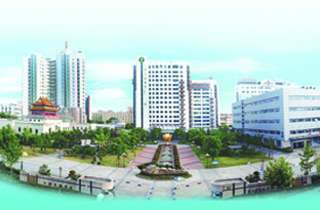
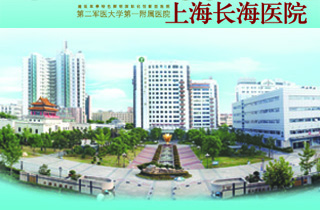
网络

Changed region(s): [[0.0, 0.0, 1.0, 0.1429]]

diff --git a/SRC/tpl/Home/lanrain/Huai_hospitalall.html b/SRC/tpl/Home/lanrain/Huai_hospitalall.html
@@ -4,12 +4,12 @@
 <div class="h_all">
 	<div>
 		<p>
-			<img src="__PUBLIC__/images/sanjia.png" width="100%" />
+			<img src="__PUBLIC__/images/head.jpg" width="100%" />
 		</p>
 	</div>
 	<div class="hos_all">
 		<div class="hos_intro">
-			<p>上海市长海医院</p>
+
 			<div class="img_intro">
 				<img src="__PUBLIC__/images/changhai.jpg" width="100%" />
 			</div>
@@ -33,110 +33,162 @@
 					<div class="menu3div">
 						<div id="con_one_1">
 							<div class="main_c">
-								<ul class="index_dpt_list">
-									
-									
-									
-									<li><a
-										href="http://chhospital.com.cn/department/single.php?did=3743"
-										title="消化内科">消化内科</a></li>
-									
-									
-									<li><a
-										href="http://chhospital.com.cn/department/single.php?did=3751"
-										title="泌尿外科">泌尿外科</a></li>
-									<li><a
-										href="http://chhospital.com.cn/department/single.php?did=3748"
-										title="胸心外科">胸心外科</a></li>
-									
-									<li><a
-										href="http://chhospital.com.cn/department/single.php?did=16184"
-										title="烧伤外科">烧伤外科</a></li>
-									
-									<li><a href="/department/single.php?did=16191"
-		title="中医肿瘤科">中医肿瘤科</a></li>
-									
-									<li><a
-										href="http://chhospital.com.cn/department/single.php?did=17640"
-										title="中医内科">中医内科</a></li>
-									<li><a
-										href="http://chhospital.com.cn/department/single.php?did=17641"
-										title="中医外科">中医外科</a></li>
-									<li><a
-										href="http://chhospital.com.cn/department/single.php?did=17639"
-										title="中医妇科">中医妇科</a></li>
-										<li><a href="/department/single.php?did=17642"
-		title="中医针灸推拿科">中医针灸推拿科</a></li>
-									
-									<li><a
-										href="http://chhospital.com.cn/department/single.php?did=3767"
-										title="影像医学科 ">影像医学科 </a></li>
-								
-								</ul>								
-							</div>							
+								<ul class="dpt_disease_list">
+									<li><a href="http://chhospital.com.cn/department/single.php?did=3743"> <img
+											src="__PUBLIC__/images/20121220161934dhu013.png" alt="消化内科"
+											class="img_style" align="left" height="100" width="100">
+											消化内科
+									</a>
+										<p>长海医院消化内科成立于1976年。2000年被批准为全军消化内科专科中心（2006年升级为研究所），2001年...</p>
+									</li>
+									<li><a href="http://chhospital.com.cn/department/single.php?did=3751"> <img
+											src="__PUBLIC__/images/20121128183600348GIV.jpg" alt="泌尿外科"
+											class="img_style" align="left" height="100" width="100">
+											泌尿外科
+									</a>
+										<p>长海医院泌尿外科是新中国成立后的第一批泌尿外科专业学科，1986年成为硕士学位授权学科，1993年成为博士...</p>
+									</li>
+									<li><a href="http://chhospital.com.cn/department/single.php?did=3748"> <img
+											src="__PUBLIC__/images/20121128183651e4CPTU.jpg" alt="胸心外科"
+											class="img_style" align="left" height="100" width="100">
+											胸心外科
+									</a>
+										<p>第二军医大学长海医院胸心外科创建于1951年，是我国成立心血管外科专业较早的单位之一。于1965年6月在国内...</p>
+									</li>
+									<li><a href="http://chhospital.com.cn/department/single.php?did=16184"> <img
+											src="__PUBLIC__/images/20130815083429sx9MRT.jpg" alt="烧伤外科"
+											class="img_style" align="left" height="100" width="100">
+											烧伤外科
+									</a>
+										<p>烧伤外科是全军烧伤中心和上海市医学领先专业重点学科。至今已救治烧伤12000余例，成功救治烧伤总面积10...</p>
+									</li>
+									<li><a href="http://chhospital.com.cn/department/single.php?did=16191"> <img
+											src="__PUBLIC__/images/20121128184123k16DNQ.jpg" alt="中医肿瘤科"
+											class="img_style" align="left" height="100" width="100">
+											中医肿瘤科
+									</a>
+										<p>第二军医大学长海中医医院，是以第二军医大学中医系和长海医院中医科为基础成立的全军首家中医医院。肿瘤...</p></li>
+									<li><a href="http://chhospital.com.cn/department/single.php?did=17640"> <img src=""
+											alt="中医内科" class="img_style" align="left" height="100"
+											width="100"> 中医内科
+									</a>
+										<p>中医内科隶属长海中医医院，参与国家中西医结合（临床）重点学科建设，为国家中医药管理局中医内科重点学...</p></li>
+									<li><a href="http://chhospital.com.cn/department/single.php?did=17641"> <img src=""
+											alt="中医外科" class="img_style" align="left" height="100"
+											width="100"> 中医外科
+									</a>
+										<p>中医外科隶属长海中医医院，为国家中西医结合（临床）重点学科，集临床、教学、科研为一体，现有教授2人，...</p></li>
+									<li><a href="http://chhospital.com.cn/department/single.php?did=17639"> <img src=""
+											alt="中医妇科" class="img_style" align="left" height="100"
+											width="100"> 中医妇科
+									</a>
+										<p>长海中医医院中医妇科已开展临床与科研工作20余年，所依托的中西医结合临床专业是国家教育部重点学科，是...</p></li>
+									<li><a href="http://chhospital.com.cn/department/single.php?did=17642"> <img src=""
+											alt="中医针灸推拿科" class="img_style" align="left" height="100"
+											width="100"> 中医针灸推拿科
+									</a>
+										<p>上海长海医院中医科（针灸推拿）创建于1958年，经过50余年的建设和发展，2011年成立长海中医医院针灸推拿...</p>
+									</li>
+									<li><a href="http://chhospital.com.cn/department/single.php?did=3767"> <img
+											src="__PUBLIC__/images/20121128184556cnov6A.jpg" alt="影像医学科 "
+											class="img_style" align="left" height="100" width="100">
+											影像医学科
+									</a>
+										<p>放射诊断科建于1949年，经几十年、几代放射专家辛勤耕耘，相继成为硕士、博士授权学科和博士后流动站，2...</p>
+									</li>
+								</ul>
+							</div>
 						</div>
 						<div id="con_one_2" style="display: none;">
-						  <div class="main_c"><ul
-	class="dpt_disease_list">
-		<li><a href="single.php?did=3739"> <img
-		src="/upload/changhai/20140724090036nuDFQT.jpg" alt="心血管内科"
-		class="img_style" align="left" height="100" width="100"> 心血管内科</a>
-	<p>心内科创建于1962年，我国医学界著名心血管专家龚念慈教授、尉挺教授是我科奠基人。经过50多年的不断建设...</p>
-	</li>
-		<li><a href="single.php?did=3774"> <img
-		src="/upload/changhai/20121128182415kqEIUX.jpg" alt="血液内科"
-		class="img_style" align="left" height="100" width="100"> 血液内科</a>
-	<p>长海医院内科血液专业成立于1962年，1978年成立血液科，1979年被总后勤部批准为全军血液病专科中心，是最...</p>
-	</li>
-		<li><a href="single.php?did=16174"> <img
-		src="/upload/changhai/20121128183025mxGKRV.jpg" alt="肛肠外科"
-		class="img_style" align="left" height="100" width="100"> 肛肠外科</a>
-	<p>国家重点学科、国家中医药管理局肛肠外科重点学科和重点专科、中国人民解放军肛肠病重点学科、第二军医大...</p>
-	</li>
-		<li><a href="single.php?did=16189"> <img
-		src="/upload/changhai/20121128183509rz14HM.jpg" alt="血管外科"
-		class="img_style" align="left" height="100" width="100"> 血管外科</a>
-	<p>第二军医大学附属长海医院血管外科成立于1989年，目前为国家重点学科，上海市血管系统疾病临床医学中心，...</p>
-	</li>
-		<li><a href="single.php?did=3753"> <img
-		src="/upload/changhai/20121128183803cnrzAF.jpg" alt="神经外科"
-		class="img_style" align="left" height="100" width="100"> 神经外科</a>
-	<p>长海医院（脑外科）神经外科建科于1953年，是上海最早设立（脑外科）神经外科医院之一，经过50多年的发展...</p>
-	</li>
-		<li><a href="single.php?did=3749"> <img
-		src="/upload/changhai/20121128183824qx1ETU.jpg" alt="整形外科"
-		class="img_style" align="left" height="100" width="100"> 整形外科</a>
-	<p>整形外科工作成立于1960年，是我国较早开展整形外科工作的单位之一。著名整形外科专家郭恩覃教授为学科创...</p>
-	</li>
-		<li><a href="single.php?did=16178"> <img
-		src="/upload/changhai/20121128183928hmsIJP.jpg" alt="麻醉科"
-		class="img_style" align="left" height="100" width="100"> 麻醉科</a>
-	<p>麻醉科是临床二级学科，麻醉学硕士、博士学位授予单位及博士后流动站，2004年成为第二军医大学麻醉学中心...</p>
-	</li>
-		<li><a href="single.php?did=3760"> <img
-		src="/upload/changhai/20121128184344ipqzKR.jpg" alt="耳鼻喉科"
-		class="img_style" align="left" height="100" width="100"> 耳鼻喉科</a>
-	<p>耳鼻喉科技术力量雄厚，人才梯队较合理。1981年被批准为硕士学位授权学科；1998年被批准为博士学位授权学...</p>
-	</li>
-	</ul>
-	</div>
+							<div class="main_c">
+								<ul class="dpt_disease_list">
+									<li><a
+										href="http://chhospital.com.cn/department/single.php?did=3739">
+											<img src="__PUBLIC__/images/20140724090036nuDFQT.jpg"
+											alt="心血管内科" class="img_style" align="left" height="100"
+											width="100"> 心血管内科
+									</a>
+										<p>心内科创建于1962年，我国医学界著名心血管专家龚念慈教授、尉挺教授是我科奠基人。经过50多年的不断建设...</p>
+									</li>
+									<li><a
+										href="http://chhospital.com.cn/department/single.php?did=3774">
+											<img src="__PUBLIC__/images/20121128182415kqEIUX.jpg"
+											alt="血液内科" class="img_style" align="left" height="100"
+											width="100"> 血液内科
+									</a>
+										<p>长海医院内科血液专业成立于1962年，1978年成立血液科，1979年被总后勤部批准为全军血液病专科中心，是最...</p>
+									</li>
+									<li><a
+										href="http://chhospital.com.cn/department/single.php?did=16174">
+											<img src="__PUBLIC__/images/20121128183025mxGKRV.jpg"
+											alt="肛肠外科" class="img_style" align="left" height="100"
+											width="100"> 肛肠外科
+									</a>
+										<p>国家重点学科、国家中医药管理局肛肠外科重点学科和重点专科、中国人民解放军肛肠病重点学科、第二军医大...</p></li>
+									<li><a
+										href="http://chhospital.com.cn/department/single.php?did=16189">
+											<img src="__PUBLIC__/images/20121128183509rz14HM.jpg"
+											alt="血管外科" class="img_style" align="left" height="100"
+											width="100"> 血管外科
+									</a>
+										<p>第二军医大学附属长海医院血管外科成立于1989年，目前为国家重点学科，上海市血管系统疾病临床医学中心，...</p>
+									</li>
+									<li><a
+										href="http://chhospital.com.cn/department/single.php?did=3753">
+											<img src="__PUBLIC__/images/20121128183803cnrzAF.jpg"
+											alt="神经外科" class="img_style" align="left" height="100"
+											width="100"> 神经外科
+									</a>
+										<p>长海医院（脑外科）神经外科建科于1953年，是上海最早设立（脑外科）神经外科医院之一，经过50多年的发展...</p>
+									</li>
+									<li><a
+										href="http://chhospital.com.cn/department/single.php?did=3749">
+											<img src="__PUBLIC__/images/20121128183824qx1ETU.jpg"
+											alt="整形外科" class="img_style" align="left" height="100"
+											width="100"> 整形外科
+									</a>
+										<p>整形外科工作成立于1960年，是我国较早开展整形外科工作的单位之一。著名整形外科专家郭恩覃教授为学科创...</p>
+									</li>
+									<li><a
+										href="http://chhospital.com.cn/department/single.php?did=16178">
+											<img src="__PUBLIC__/images/20121128183928hmsIJP.jpg"
+											alt="麻醉科" class="img_style" align="left" height="100"
+											width="100"> 麻醉科
+									</a>
+										<p>麻醉科是临床二级学科，麻醉学硕士、博士学位授予单位及博士后流动站，2004年成为第二军医大学麻醉学中心...</p>
+									</li>
+									<li><a
+										href="http://chhospital.com.cn/department/single.php?did=3760">
+											<img src="__PUBLIC__/images/20121128184344ipqzKR.jpg"
+											alt="耳鼻喉科" class="img_style" align="left" height="100"
+											width="100"> 耳鼻喉科
+									</a>
+										<p>耳鼻喉科技术力量雄厚，人才梯队较合理。1981年被批准为硕士学位授权学科；1998年被批准为博士学位授权学...</p>
+									</li>
+								</ul>
+							</div>
 						</div>
 						<div id="con_one_3" style="display: none;">
-						   <div class="main_c"><ul class="index_dpt_list">
-	<li><a href="../center/single.php?did=7"
-		title="全军计划生育优生优育技术研究所">全军计划生育优生优育技术研究所</a></li>
-			<li><a href="../center/single.php?did=3"
-		title="眼屈光中心">眼屈光中心</a></li>
-			<li><a href="../center/single.php?did=5"
-		title="上海智能微创手术中心">上海智能微创手术中心</a></li>
-			<li><a href="../center/single.php?did=6"
-		title="肿瘤射波刀治疗中心">肿瘤射波刀治疗中心</a></li>
-		</ul>
-</div>
-						 
+							<div class="main_c">
+								<ul class="index_dpt_list">
+									<li><a
+										href="http://chhospital.com.cn/department/single.php?did=7"
+										title="全军计划生育优生优育技术研究所">全军计划生育优生优育技术研究所</a></li>
+									<li><a
+										href="http://chhospital.com.cn/department/single.php?did=3"
+										title="眼屈光中心">眼屈光中心</a></li>
+									<li><a
+										href="http://chhospital.com.cn/department/single.php?did=5"
+										title="上海智能微创手术中心">上海智能微创手术中心</a></li>
+									<li><a
+										href="http://chhospital.com.cn/department/single.php?did=6"
+										title="肿瘤射波刀治疗中心">肿瘤射波刀治疗中心</a></li>
+								</ul>
+							</div>
+
 						</div>
 						<div id="con_one_4" style="display: none;">
-						    <div class="main_c">
+							<div class="main_c">
 								<ul class="index_dpt_list">
 									<li><a
 										href="http://chhospital.com.cn/department/single.php?did=3739"
@@ -288,7 +340,9 @@
 									<li><a
 										href="http://chhospital.com.cn/department/single.php?did=17627"
 										title="临床实验中心 ">临床实验中心 </a></li>
-									<li><a href="/department/single.php?did=3776" title="急诊科">急诊科</a></li>
+									<li><a
+										href="/department/http://chhospital.com.cn/department/single.php?did=3776"
+										title="急诊科">急诊科</a></li>
 									<li><a
 										href="http://chhospital.com.cn/department/single.php?did=17632"
 										title="门诊部">门诊部</a></li>
@@ -298,19 +352,19 @@
 									<li><a
 										href="http://chhospital.com.cn/department/single.php?did=3741"
 										title="药学部">药学部</a></li>
-								</ul>								
-							</div>		
-						
-						
+								</ul>
+							</div>
+
+
 						</div>
 						<div id="con_one_5" style="display: none;">专家介绍</div>
-						
+
 					</div>
 				</div>
 			</div>
 		</div>
 		<script type="text/javascript">
-		    var cursel_0 = 1;
+			var cursel_0 = 1;
 
 			function Next() {
 				cursel_0++;
@@ -345,13 +399,14 @@
 				}
 				setTab(name_0, cursel_0);
 				iIntervalId = setInterval(Next, ScrollTime);
-				*/
+				 */
 			}
 			function setTab(name, cursel) {
 				cursel_0 = cursel;
 				for ( var i = 1; i <= links_len; i++) {
-					var menu = document.getElementById("a"+name+i);
-					var menudiv = document.getElementById("con_"+name+"_"+ i);
+					var menu = document.getElementById("a" + name + i);
+					var menudiv = document.getElementById("con_" + name + "_"
+							+ i);
 					if (i == cursel) {
 						menu.className = "off";
 						menudiv.style.display = "block";

diff --git a/SRC/tpl/Home/lanrain/common/css/style.css b/SRC/tpl/Home/lanrain/common/css/style.css
@@ -184,19 +184,31 @@ dl dd a:hover {text-decoration:underline; color:#333;}
 .h_all_list{margin-bottom:20px;background: white;}
 .h_list{border:1px solid #006835;text-align:center;padding:0 5px;}
 .h_table{width:96%;margin-left:2%}
-.img_intro{width: 320px;height: 210px;margin: 10px 0px;float:left;}
-.con_intro{width: 640px;float: left;height: 210px;}
+.img_intro{width: 25%;margin: 10px 0px;float:left;}
+.con_intro{width: 74%;float: left;margin-left:1%;height:159px;background:white;margin-top: 10px}
+.con_intro h2{font-size:1em;;line-height:22px}
+
 .keshi_all{width:960px;}
-.tab2{width:960px;border: 2px solid #006835;margin:10px 0px;}
+.tab2{width:960px;border: 1px solid #ccc;margin:10px 0px;}
 .menu3{height:28px;}
-.menu3 li{float:left;width:150px;text-align:center;line-height:35px;height:35px;cursor:pointer;border-left:#ffffff solid 1px;font-size:18px;overflow:hidden;background:#cad0cb;}
+.menu3 li{float: left;
+width: 191px;
+text-align: center;
+line-height: 23px;
+height: 26px;
+cursor: pointer;
+border-left: #ccc solid 1px;
+font-size: 14px;
+overflow: hidden;
+background:white;
+border:}
 .menu3 li.off{background:#FFFFFF;color:#000;}
-.menu3div{height:300px;border-left:#cccccc solid 1px;border-right:#cccccc solid 1px;border-top:0;background:#fefefe}
+.menu3div{height:220px;;border-top:0;background:#fefefe;overflow: auto}
 #exa_right{width:px}
 .upper{padding-top:0px}
 .main_c {
 float: left;
-width: 1040px;
+width: 960px;
 font-size: 12px;}
 .index_dpt_list {
 margin: 0;
@@ -210,3 +222,6 @@ float: left;
 width: 11.8%;
 line-height: 31px;
 }
+.dpt_disease_list li{float:left;width:211px;margin-left: 18px;
+background: white;
+margin-top: 13px}
